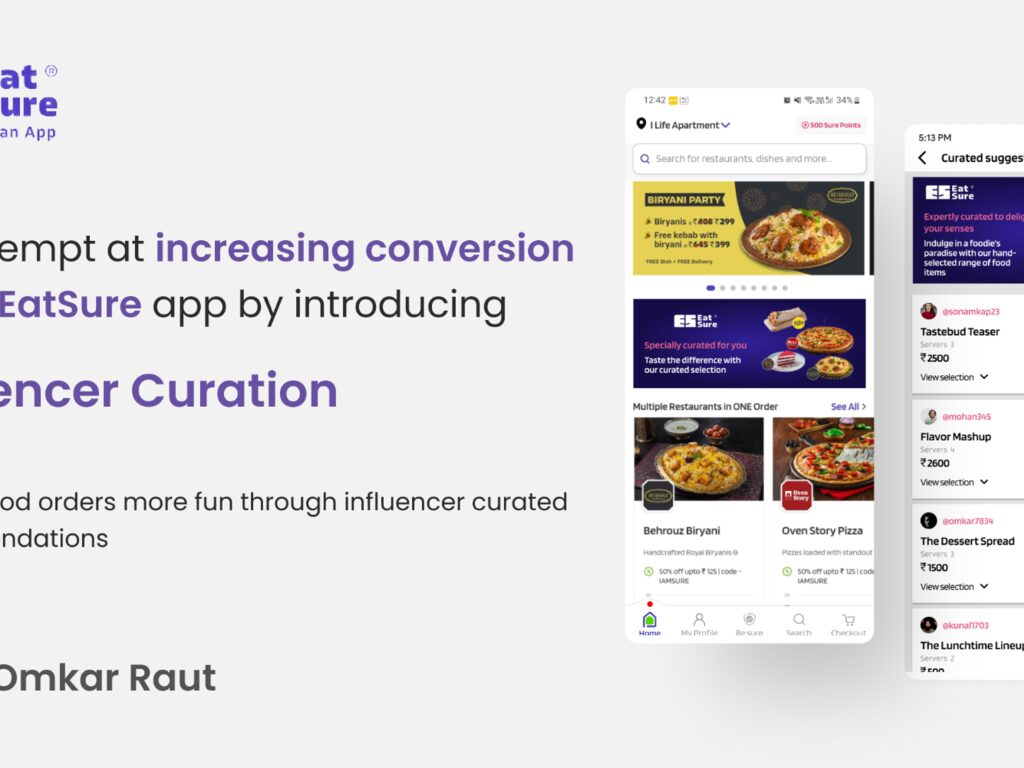
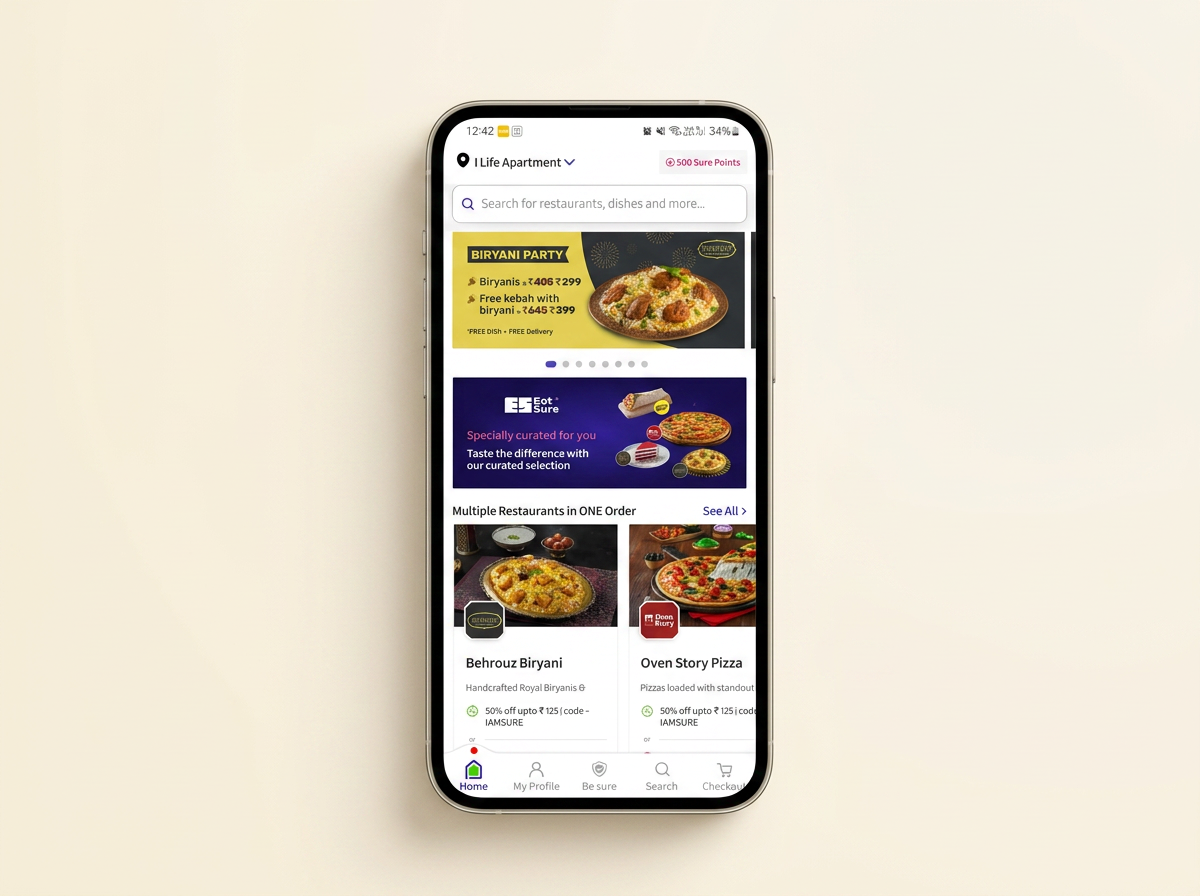
Changes

diff --git a/.lovable/plan.md b/.lovable/plan.md
@@ -1,55 +1,18 @@
-## Goal
+## Problem
 
-Replace placeholder content in `src/routes/work.eatsure.tsx` with the provided EatSure content verbatim, and wire up the 7 uploaded images converted to WebP.
+The EatSure thumbnail in the Work listing is clipped on the left. The current `src/assets/work-eatsure.jpg` is the full hero composition (EatSure logo + headline text + two phone screens) but it renders inside a 280px-wide card with `aspect-[4/3] object-cover`, so the left side text gets cropped and the result looks unbalanced next to the Legal DMS and Compliance Companion thumbnails.
 
-## Image conversion
+## Fix
 
-Copy uploads to `/tmp` and convert to WebP into `src/assets/`:
+Regenerate `src/assets/work-eatsure.jpg` as a purpose-built 4:3 thumbnail:
 
-- `Hero_Image_Eatsure.png` → `src/assets/eatsure-hero.webp` (also overwrite `src/assets/work-eatsure.jpg` thumbnail with a WebP version used by the Work listing — keep the existing import path or swap to webp)
-- `Home_screen_Eatsure.png` → `src/assets/eatsure-home.webp`
-- `Curators_screen_Eatsure.png` → `src/assets/eatsure-curators.webp`
-- `Cart_page_Eatsure.png` → `src/assets/eatsure-cart.webp`
-- `Payment_Eatsure.png` → `src/assets/eatsure-payment.webp`
-- `Profile_page_Eatsure.png` → `src/assets/eatsure-profile.webp`
-- `UI_Components_1.png` → `src/assets/eatsure-ui-components.webp`
-
-For the Work listing thumbnail (`src/components/Work.tsx` imports `work-eatsure.jpg`), swap the import to a new `eatsure-thumb.webp` generated from the hero (or reuse `eatsure-hero.webp`).
-
-## Content mapping to `CaseStudy` props
-
-Use content exactly as provided (no rewording). Sections in this order matches the component's render order, with **Impact placed above Final solution / after Key screens** per the established CaseStudy layout (same pattern used in Compliance Companion).
-
-- `number` "03", `name` "Designing a Food Curation Feature on the EatSure App", `tagline` "Influencer curation widget that helps users discover curated food combinations and increases order value."
-- `heroImage` eatsure-hero.webp
-- `meta` { role: "UX Designer", platform: "Mobile · EatSure App" }
-- `focusAreas` ["Product thinking", "Feature design", "Food curation experience", "UI design", "User flow creation", "Usability testing"]
-- `context` — the two "Project Overview" paragraphs (Designing a Food Curation Feature… + The idea behind the feature…)
-- `challenge` — full Challenge section text (including the bulleted questions inlined and the "target audience" paragraph)
-- `research` — Research & Discovery paragraphs as intro; two `insights` pulled from "Key Findings & Improvements" (use two of the key insight sentences verbatim, attributed "Key finding")
-- `screens` — six entries in this order with captions taken from the provided content themes:
-  1. Home screen — eatsure-home.webp — "Curated suggestion entry point on the home feed"
-  2. Curated suggestions — eatsure-curators.webp — "Discovering curations from food bloggers"
-  3. Curator profile — eatsure-profile.webp — "Building trust through curator profiles"
-  4. UI components & edit flow — eatsure-ui-components.webp — "Curation card, edit selection, and cancel confirmation"
-  5. Cart — eatsure-cart.webp — "Curated combinations carried through to cart with cross-sell"
-  6. Payment — eatsure-payment.webp — "Checkout flow for curated orders"
-- `impact` — bullets from the Impact section (the four bullet items + the follow / revisit sentence)
-- `solution` — the "Key Screens / UX Solution" section text (no image)
-- `constraints` — three Constraints paragraphs as bullets
-- `collaboration` — the "Design Process & Iterations" section text
-- `reflection` — first Learnings paragraph
-- `learnings` — remaining two Learnings paragraphs as bullets
-- `prev` { to: "/work/compliance-companion", label: "Compliance Companion" } (no `next`)
-
-All text strings copied verbatim from the user's message — no rewording, no summarization.
+- Source: existing `src/assets/eatsure-home.webp` (the home-screen phone screenshot)
+- Tool: `imagegen--edit_image` with `aspect_ratio: "4:3"`
+- Prompt: center the phone mockup on a warm cream background that matches the site palette, with generous padding and a soft shadow, no text overlay, fully visible phone
+- Output overwrites `src/assets/work-eatsure.jpg`
 
 ## Files touched
 
-- new: `src/assets/eatsure-{hero,home,curators,cart,payment,profile,ui-components}.webp`
-- edited: `src/routes/work.eatsure.tsx` (full rewrite of props)
-- edited: `src/components/Work.tsx` — swap `work-eatsure.jpg` import to the new webp (or leave .jpg and just overwrite its bytes — simpler: overwrite `src/assets/work-eatsure.jpg` with a new compressed JPG generated from the hero so no Work.tsx change is needed; matches what was done previously for other cases)
+- `src/assets/work-eatsure.jpg` (regenerated)
 
-## Verification
-
-After edits, view the updated `/work/eatsure` route in preview, confirm images load and content appears verbatim, and confirm the Work listing thumbnail still renders.
+No component code changes — `src/components/Work.tsx` already imports this path. The case study hero and gallery images are untouched.
